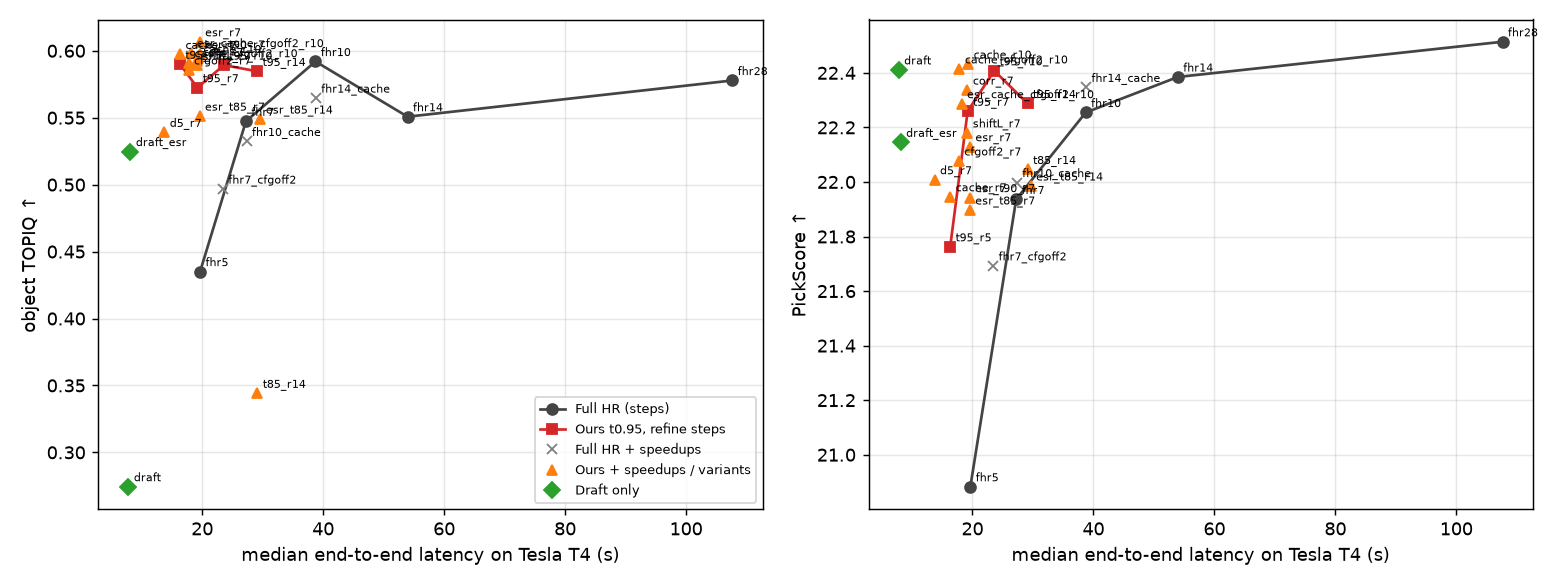
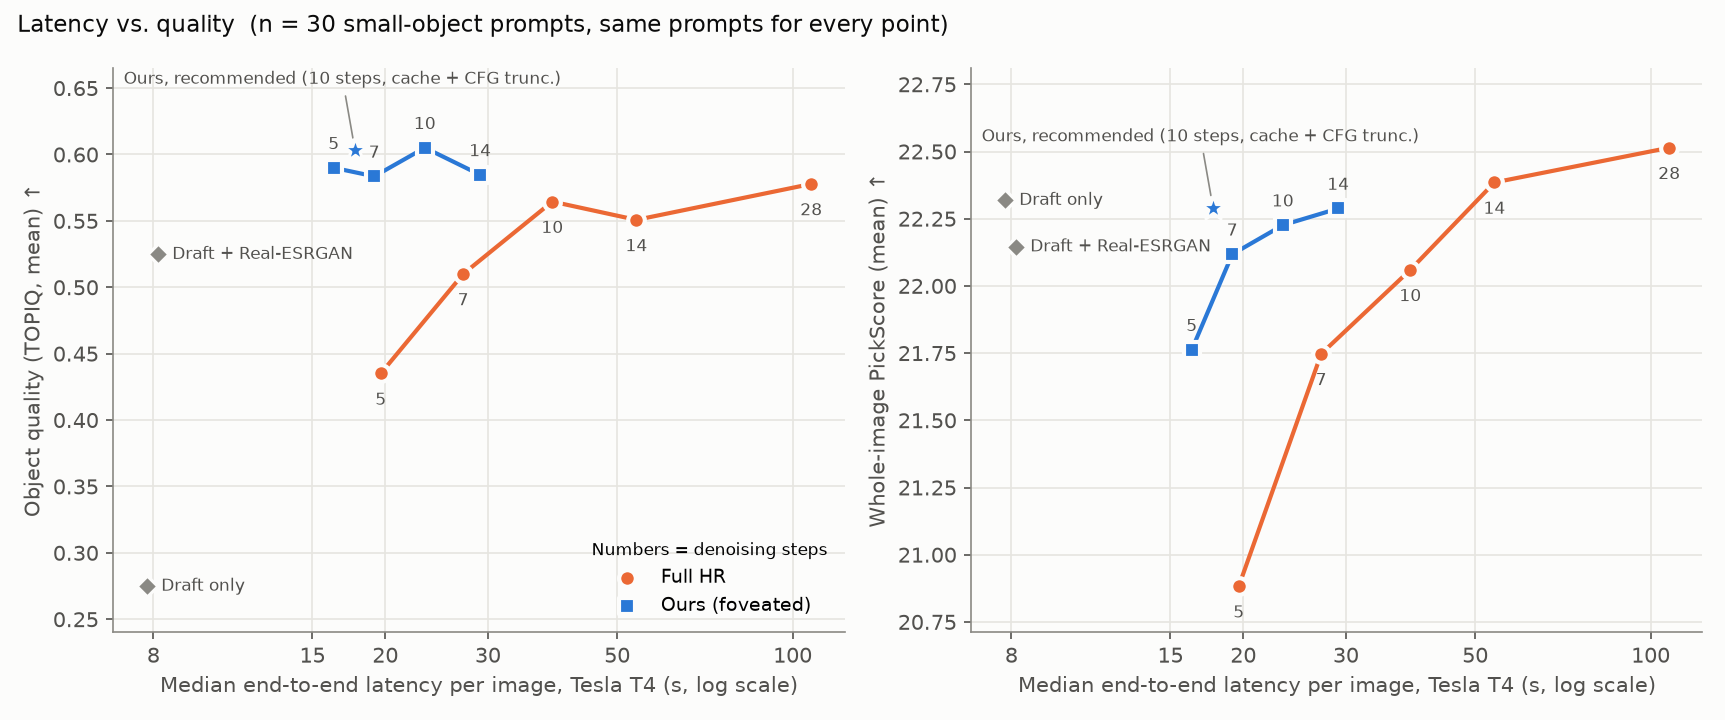
Redo ablation figures: clean latency curve, paired-effects plot, readable grid
- Latency vs. quality: only Full HR and ours step sweeps plus key points, same 30 prompts, log time axis.
- New paired-effects (forest) plot covering every ablation with 95% bootstrap CIs.
- Qualitative grid: plain-language columns, crops on the scored OWLv2 box, rule-based prompt choice, JPEG (5.4 MB -> 0.4 MB).
- summarize_ablations.py no longer overwrites the latency figure.

diff --git a/scripts/ablation_figure.py b/scripts/ablation_figure.py
@@ -1,38 +1,238 @@
-"""Qualitative grid for the ablations: for a few prompts, full images (top) and OWLv2 object crops (bottom)."""
-import json, os, sys
+"""Figures for Ablations.md / RESULTS.md (called by summarize_ablations.py, or run directly).
+
+  assets/ablation_latency_quality.png  latency vs. object quality / PickScore: Full HR step sweep vs. ours, n = 30 shared prompts
+  assets/ablation_effects.png          paired effects (Δ object TOPIQ, 95% bootstrap CI) for every ablation question
+  assets/ablation_qualitative.jpg      same prompts, same draft: full image + OWLv2 object crop (the crop TOPIQ is scored on)
+"""
+import json
+import os
+
+import matplotlib
+matplotlib.use("Agg")
+import matplotlib.pyplot as plt
+import numpy as np
 import pandas as pd
-from PIL import Image, ImageDraw
+from PIL import Image
 
-VARS = ["draft", "ours_t95_r7", "allhr_fov_t95_r7", "allhr_nofov_t95_r7", "mask_random_t95_r7", "ours_esr_t95_r7",
-        "ours_cache_t95_r10", "fhr7"]
+CSV = "results/ablations/metrics.csv"
+CSV1 = "results/ablations/metrics_seed1.csv"
+ROOT = "outputs/abl"
+
+# palette: reference categorical slots 1-2 (validated all-pairs, light + dark); neutral ink for everything else
+OURS, FHR = "#2a78d6", "#eb6834"
+INK, INK2, MUTED, GRID, SURF = "#0b0b0b", "#52514e", "#8a8984", "#e6e5e0", "#fcfcfb"
+
+plt.rcParams.update({
+    "font.family": "DejaVu Sans", "font.size": 10, "axes.edgecolor": MUTED, "axes.labelcolor": INK2,
+    "xtick.color": INK2, "ytick.color": INK2, "axes.spines.top": False, "axes.spines.right": False,
+    "axes.grid": True, "grid.color": GRID, "grid.linewidth": 0.8, "axes.axisbelow": True,
+    "figure.facecolor": SURF, "axes.facecolor": SURF, "savefig.facecolor": SURF,
+})
+rng = np.random.default_rng(0)
 
 
-def main(csv="results/ablations/metrics.csv", root="outputs/abl", out="assets/ablation_qualitative.png", n=3, tile=256):
-    df = pd.read_csv(csv)
-    vars_ = [v for v in VARS if v in set(df.variant)]
-    have = df[df.variant.isin(vars_)].groupby("id").variant.nunique()
-    ids = [i for i in have[have == len(vars_)].index][:: max(1, len(have) // n)][:n]
-    if not ids:
-        return
-    W = tile * len(vars_)
-    canvas = Image.new("RGB", (W, (2 * tile + 18) * len(ids) + 18), "white")
-    d = ImageDraw.Draw(canvas)
-    for j, v in enumerate(vars_):
-        d.text((j * tile + 4, 2), v, fill="black")
+def load():
+    df = pd.read_csv(CSV)
+    base = df.groupby("id").seed.transform("min")
+    d0 = df[df.seed == base]
+    d1 = pd.read_csv(CSV1) if os.path.exists(CSV1) else None
+    return d0, d1
+
+
+# ---------------------------------------------------------------- 1. latency vs quality
+def latency_quality(d0, out="assets/ablation_latency_quality.png"):
+    fhr = [("fhr5", 5), ("fhr7", 7), ("fhr10", 10), ("fhr14", 14), ("fhr28", 28)]
+    ours = [("ours_t95_r5", 5), ("ours_t95_r7", 7), ("ours_t95_r10", 10), ("ours_t95_r14", 14)]
+    extra = [("ours_cache_cfgoff2_t95_r10", "Ours, recommended\n(10 steps, cache + CFG trunc.)"),
+             ("draft", "Draft only"), ("draft_esr", "Draft + Real-ESRGAN")]
+    allv = [v for v, _ in fhr + ours] + [v for v, _ in extra]
+    allv = [v for v in allv if v in set(d0.variant)]
+    sets = [set(d0[d0.variant == v].id) for v in allv]
+    ids = sorted(set.intersection(*sets))
+    d = d0[d0.id.isin(ids)]
+    g = d.groupby("variant").agg(lat=("latency_s", "median"), q=("obj_topiq", "mean"), p=("pick", "mean"))
+
+    fig, axes = plt.subplots(1, 2, figsize=(11.5, 4.8))
+    for ax, col, ylab in [(axes[0], "q", "Object quality (TOPIQ, mean) ↑"), (axes[1], "p", "Whole-image PickScore (mean) ↑")]:
+        for series, color, mk, name in [(fhr, FHR, "o", "Full HR"), (ours, OURS, "s", "Ours (foveated)")]:
+            s = [(g.loc[v, "lat"], g.loc[v, col], k) for v, k in series if v in g.index]
+            x, y, k = zip(*s)
+            ax.plot(x, y, "-", color=color, lw=2, zorder=2)
+            ax.scatter(x, y, s=64, marker=mk, color=color, edgecolor=SURF, linewidth=2, zorder=3, label=name)
+            for xi, yi, ki in s:
+                ax.annotate(f"{ki}", (xi, yi), xytext=(0, -15 if color == FHR else 9), textcoords="offset points",
+                            ha="center", fontsize=8, color=INK2)
+        for v, lab in extra:
+            if v not in g.index:
+                continue
+            rec = v.startswith("ours")
+            ax.scatter(g.loc[v, "lat"], g.loc[v, col], s=150 if rec else 50, marker="*" if rec else "D",
+                       color=OURS if rec else MUTED, edgecolor=SURF, linewidth=1.5, zorder=4)
+            if rec:
+                ax.annotate(lab.replace("\n", " "), (g.loc[v, "lat"], g.loc[v, col]), xytext=(-6, 30), textcoords="offset points",
+                            fontsize=8, color=INK2, ha="center", va="bottom",
+                            arrowprops=dict(arrowstyle="-", color=MUTED, lw=0.8, shrinkB=6))
+            else:
+                ax.annotate(lab, (g.loc[v, "lat"], g.loc[v, col]), xytext=(7, 0), textcoords="offset points",
+                            fontsize=8, color=INK2, va="center")
+        ax.set_xscale("log")
+        ax.set_xticks([8, 15, 20, 30, 50, 100])
+        ax.get_xaxis().set_major_formatter(matplotlib.ticker.ScalarFormatter())
+        ax.minorticks_off()
+        ax.set_xlabel("Median end-to-end latency per image, Tesla T4 (s, log scale)")
+        ax.set_ylabel(ylab)
+        lo, hi = ax.get_ylim()
+        ax.set_ylim(lo - (hi - lo) * 0.05, hi + (hi - lo) * 0.12)  # room for step labels + recommended-config label
+    axes[0].legend(loc="lower right", frameon=False, fontsize=9, title="Numbers = denoising steps", title_fontsize=8)
+    fig.suptitle(f"Latency vs. quality  (n = {len(ids)} small-object prompts, same prompts for every point)",
+                 x=0.01, ha="left", fontsize=11, color=INK)
+    fig.tight_layout()
+    fig.savefig(out, dpi=150)
+    plt.close(fig)
+
+
+# ---------------------------------------------------------------- 2. paired effects (forest plot)
+EFFECTS = [
+    ("Mask source (equal token budget)", [
+        ("ours_t95_r7", "mask_random_t95_r7", "CLIPSeg mask vs. same-size box, wrong place", 0),
+        ("ours_t95_r7", "mask_center_t95_r7", "CLIPSeg mask vs. same-size box, centered", 0),
+        ("ours_t95_r7", "mask_none_t95_r7", "CLIPSeg mask vs. no full-res tokens", 0),
+        ("ours_t95_r7", "mask_random_t95_r7", "CLIPSeg vs. wrong-place box (seed 2)", 1)]),
+    ("Every token full-res (same draft)", [
+        ("allhr_fov_t95_r7", "ours_t95_r7", "All full-res, foveated LoRA vs. ours", 0),
+        ("allhr_nofov_t95_r7", "ours_t95_r7", "All full-res, no-foveation LoRA vs. ours", 0),
+        ("allhr_base_t95_r7", "ours_t95_r7", "All full-res, no LoRA vs. ours", 0),
+        ("allhr_fov_esr_t95_r7", "allhr_fov_t95_r7", "All full-res: Real-ESRGAN vs. bicubic init", 0),
+        ("naive_t95_r7", "ours_t95_r7", "No foveated attention vs. ours", 0),
+        ("ours_shiftL_t95_r7", "ours_t95_r7", "True-length schedule shift vs. ours", 0)]),
+    ("Init and noise", [
+        ("ours_corr_t95_r7", "ours_t95_r7", "Correlated low/high-res noise", 0),
+        ("ours_esr_t95_r7", "ours_t95_r7", "Real-ESRGAN init, t=0.95", 0),
+        ("ours_esr_t95_r7", "ours_t95_r7", "Real-ESRGAN init, t=0.95 (seed 2)", 1),
+        ("ours_esr_t85_r14", "ours_t85_r14", "Real-ESRGAN init, t=0.85, 14 steps", 0)]),
+    ("Speedups (vs. ours, 7 steps)", [
+        ("ours_cfgoff2_t95_r7", "ours_t95_r7", "No CFG on last 2 steps  (−1.4 s)", 0),
+        ("ours_cache_t95_r7", "ours_t95_r7", "Cache 2 of 7 steps  (−2.8 s)", 0),
+        ("ours_cache_t95_r10", "ours_t95_r7", "10 steps, 3 cached  (±0 s)", 0),
+        ("ours_cache_cfgoff2_t95_r10", "ours_t95_r7", "Recommended: 10 steps, cache + CFG trunc.  (−1.4 s)", 0)]),
+    ("Ours vs. Full HR", [
+        ("ours_t95_r5", "fhr5", "Ours vs. Full HR, 5 steps each  (3.3 s faster)", 0),
+        ("ours_t95_r7", "fhr7", "Ours vs. Full HR, 7 steps each  (1.4× faster)", 0),
+        ("ours_cache_cfgoff2_t95_r10", "fhr7", "Recommended vs. Full HR 7 steps  (1.5× faster)", 0),
+        ("ours_cache_cfgoff2_t95_r10", "fhr10", "Recommended vs. Full HR 10 steps  (2.2× faster)", 0),
+        ("ours_cache_cfgoff2_t95_r10", "fhr10", "Recommended vs. Full HR 10 steps (seed 2)", 1),
+        ("ours_t95_r5", "fhr28", "Ours 5 steps vs. Full HR 28 steps  (6.6× faster)", 0)]),
+]
+
+
+def paired(df, a, b, m="obj_topiq"):
+    if df is None:
+        return None
+    x = df[df.variant == a].set_index("id")[m]
+    y = df[df.variant == b].set_index("id")[m]
+    ids = x.index.intersection(y.index)
+    dd = (x[ids] - y[ids]).dropna().values
+    if len(dd) < 3:
+        return None
+    boots = rng.choice(dd, (4000, len(dd))).mean(1)
+    lo, hi = np.percentile(boots, [2.5, 97.5])
+    return dd.mean(), lo, hi, len(dd)
+
+
+def effects(d0, d1, out="assets/ablation_effects.png"):
+    rows = []  # (label, mean, lo, hi, n) or (group header,)
+    for grp, items in EFFECTS:
+        rr = []
+        for a, b, lab, s in items:
+            r = paired(d0 if s == 0 else d1, a, b)
+            if r:
+                rr.append((lab, *r))
+        if rr:
+            rows.append((grp,))
+            rows += rr
+    H = 0.32 * len(rows) + 1.0
+    fig, ax = plt.subplots(figsize=(10, H))
+    y = 0
+    yt, yl = [], []
+    for r in rows:
+        y -= 1
+        if len(r) == 1:
+            ax.text(-0.015, y, r[0], transform=ax.get_yaxis_transform(), ha="right", va="center",
+                    fontsize=9.5, fontweight="bold", color=INK)
+            continue
+        lab, m, lo, hi, n = r
+        sig = lo > 0 or hi < 0
+        ax.plot([lo, hi], [y, y], color=OURS if sig else MUTED, lw=2, solid_capstyle="round", zorder=2)
+        ax.scatter([m], [y], s=46, color=OURS if sig else SURF, edgecolor=OURS if sig else MUTED, linewidth=1.8, zorder=3)
+        ax.text(1.01, y, f"{m:+.3f}  [{lo:+.3f}, {hi:+.3f}]  n={n}", transform=ax.get_yaxis_transform(),
+                va="center", fontsize=8, color=INK2, family="DejaVu Sans Mono")
+        yt.append(y)
+        yl.append(lab)
+    ax.axvline(0, color=INK2, lw=1, zorder=1)
+    ax.set_yticks(yt, yl, fontsize=8.5)
+    ax.tick_params(axis="y", length=0)
+    ax.set_ylim(y - 0.7, 0.3)
+    ax.grid(axis="y", visible=False)
+    ax.set_xlabel("Δ object quality (TOPIQ), paired per prompt: first − second.  Filled = 95% CI excludes 0")
+    ax.set_title("Every ablation in one view: paired differences with 95% bootstrap CIs", loc="left", fontsize=11, color=INK)
+    fig.tight_layout()
+    fig.subplots_adjust(right=0.74)
+    fig.savefig(out, dpi=150)
+    plt.close(fig)
+
+
+# ---------------------------------------------------------------- 3. qualitative grid
+COLS = [("draft", "Draft (256², bicubic ×4)"), ("fhr7", "Full HR, 7 steps"), ("allhr_fov_t95_r7", "All tokens full-res"),
+        ("mask_random_t95_r7", "Mask in wrong place"), ("ours_t95_r7", "Ours, 7 steps"),
+        ("ours_cache_cfgoff2_t95_r10", "Ours, recommended")]
+
+
+def qualitative(d0, out="assets/ablation_qualitative.jpg", n=3, tile=300):
+    from src.semantic_foveation.benchmark import PROMPT_SETS
+    prompts = {p["id"]: p for s in PROMPT_SETS.values() for p in s}
+    cols = [(v, t) for v, t in COLS if v in set(d0.variant)]
+    ref = "allhr_nofov_t95_r7"
+    have = d0[d0.variant.isin([v for v, _ in cols] + [ref])].groupby("id").variant.nunique()
+    cand = have[have == len(cols) + 1].index
+    # prompts chosen without looking at images: 25th/50th/75th percentile of the ours − all-full-res TOPIQ gap
+    diff = (d0[d0.variant == "ours_t95_r7"].set_index("id").obj_topiq - d0[d0.variant == "allhr_fov_t95_r7"].set_index("id").obj_topiq)
+    diff = diff[diff.index.isin(cand)].sort_values()
+    ids = [diff.index[int(q * (len(diff) - 1))] for q in (0.25, 0.5, 0.75)][:n]
+
+    fig, axes = plt.subplots(2 * len(ids), len(cols), figsize=(2.2 * len(cols), 2.2 * 2 * len(ids) + 0.6),
+                             gridspec_kw=dict(wspace=0.03, hspace=0.06))
     for r, pid in enumerate(ids):
-        y = 18 + r * (2 * tile + 18)
-        for j, v in enumerate(vars_):
-            row = df[(df.variant == v) & (df.id == pid)].iloc[0]
-            img = Image.open(os.path.join(root, v, f"{pid:03d}.png")).convert("RGB")
-            box = json.loads(row["box"])
-            full = img.resize((tile, tile))
-            dd = ImageDraw.Draw(full)
+        for j, (v, title) in enumerate(cols):
+            img = Image.open(os.path.join(ROOT, v, f"{pid:03d}.png")).convert("RGB")
+            row = d0[(d0.variant == v) & (d0.id == pid)].iloc[0]
+            box = json.loads(row["box"])  # this image's own OWLv2 box = the crop its TOPIQ is computed on
+            a_full, a_crop = axes[2 * r, j], axes[2 * r + 1, j]
+            a_full.imshow(img.resize((tile, tile), Image.Resampling.LANCZOS))
             s = tile / img.width
-            dd.rectangle([box[0] * s, box[1] * s, box[2] * s, box[3] * s], outline="yellow", width=2)
-            canvas.paste(full, (j * tile, y))
-            canvas.paste(img.crop(box).resize((tile, tile), Image.Resampling.LANCZOS), (j * tile, y + tile))
-            d.text((j * tile + 4, y + 2 * tile + 2), f"id {pid} topiq {row['obj_topiq']:.2f}", fill="black")
-    canvas.save(out)
+            a_full.add_patch(plt.Rectangle((box[0] * s, box[1] * s), (box[2] - box[0]) * s, (box[3] - box[1]) * s,
+                                           fill=False, ec="#ffd400", lw=1.5))
+            a_crop.imshow(img.crop(box).resize((tile, tile), Image.Resampling.LANCZOS))
+            a_crop.text(0.03, 0.03, f"TOPIQ {row['obj_topiq']:.2f}", transform=a_crop.transAxes, fontsize=7.5,
+                        color="white", bbox=dict(fc="black", alpha=0.55, lw=0, pad=1.5))
+            for a in (a_full, a_crop):
+                a.set_xticks([]); a.set_yticks([]); a.grid(False)
+                for sp in a.spines.values():
+                    sp.set_visible(v.startswith("ours")); sp.set_color(OURS); sp.set_linewidth(2)
+            if r == 0:
+                a_full.set_title(title, fontsize=9, color=INK)
+        axes[2 * r, 0].set_ylabel(f"“{prompts[pid]['focus_prompt']}”", fontsize=8.5, color=INK2)
+        axes[2 * r + 1, 0].set_ylabel("object crop", fontsize=8, color=MUTED)
+    fig.savefig(out, dpi=110, bbox_inches="tight", pil_kwargs={"quality": 88})
+    plt.close(fig)
+
+
+def main():
+    import sys
+    sys.path.insert(0, os.path.dirname(os.path.dirname(os.path.abspath(__file__))))
+    d0, d1 = load()
+    latency_quality(d0)
+    effects(d0, d1)
+    qualitative(d0)
 
 
 if __name__ == "__main__":

diff --git a/scripts/summarize_ablations.py b/scripts/summarize_ablations.py
@@ -1,7 +1,7 @@
 """Summarize results/ablations/metrics.csv into markdown tables (+ latency/quality plot).
 
 Every comparison is paired over the prompts both variants share, with 95% bootstrap CIs (2000 resamples).
-Writes results/ablations/SUMMARY.md and assets/ablation_latency_quality.png, and splices SUMMARY.md into
+Writes results/ablations/SUMMARY.md, the figures (scripts/ablation_figure.py), and splices SUMMARY.md into
 RESULTS.md between the ABLATIONS markers.
 """
 
@@ -18,7 +18,6 @@ import pandas as pd
 
 CSV = "results/ablations/metrics.csv"
 OUT = "results/ablations/SUMMARY.md"
-PLOT = "assets/ablation_latency_quality.png"
 METRICS = ["latency_s", "tokens", "obj_topiq", "obj_musiq", "obj_clipiqa", "obj_hf", "obj_clip", "owl_score", "pick",
            "drift_lpips", "ref_lpips_obj", "seam"]
 rng = np.random.default_rng(0)
@@ -91,29 +90,6 @@ def paired_table(df, pairs, metrics, title, note=""):
     return ("\n".join(lines) + "\n") if any_row else ""
 
 
-def plot(df):
-    g = df.groupby("variant").agg(lat=("latency_s", "median"), q=("obj_topiq", "mean"), p=("pick", "mean"))
-    fig, axes = plt.subplots(1, 2, figsize=(12, 4.5))
-    fams = [("Full HR (steps)", lambda v: v.startswith("fhr") and "_" not in v, "#444444", "o-"),
-            ("Ours t0.95, refine steps", lambda v: v in ("ours_t95_r5", "ours_t95_r7", "ours_t95_r10", "ours_t95_r14"), "#d62728", "s-"),
-            ("Full HR + speedups", lambda v: v.startswith("fhr") and "_" in v, "#7f7f7f", "x"),
-            ("Ours + speedups / variants", lambda v: v.startswith("ours") and v not in ("ours_t95_r5", "ours_t95_r7", "ours_t95_r10", "ours_t95_r14"), "#ff7f0e", "^"),
-            ("Draft only", lambda v: v.startswith("draft"), "#2ca02c", "D")]
-    for ax, col, lab in [(axes[0], "q", "object TOPIQ ↑"), (axes[1], "p", "PickScore ↑")]:
-        for name, f, c, mk in fams:
-            s = g[[f(v) for v in g.index]].sort_values("lat")
-            if len(s):
-                ax.plot(s.lat, s[col], mk, color=c, label=name, ms=6)
-                for v, r in s.iterrows():
-                    ax.annotate(v.replace("ours_", "").replace("_t95", ""), (r.lat, r[col]), fontsize=6, xytext=(3, 3), textcoords="offset points")
-        ax.set_xlabel("median end-to-end latency on Tesla T4 (s)")
-        ax.set_ylabel(lab)
-        ax.grid(alpha=0.3)
-    axes[0].legend(fontsize=7)
-    fig.tight_layout()
-    fig.savefig(PLOT, dpi=130)
-
-
 def main():
     if not os.path.exists(CSV):
         print("no metrics yet")
@@ -179,7 +155,6 @@ def main():
     md = "\n".join(p for p in parts if p)
     os.makedirs(os.path.dirname(OUT), exist_ok=True)
     open(OUT, "w").write(md)
-    plot(df)
     try:
         import ablation_figure
         ablation_figure.main()

diff --git a/Ablations.md b/Ablations.md
@@ -2,7 +2,9 @@
 
 This document lists every ablation run in the Session 2 study and what each one showed. The full tables, with every paired confidence interval, are in [RESULTS.md](RESULTS.md) (section "Session 2") and [results/ablations/SUMMARY.md](results/ablations/SUMMARY.md). The raw per-image metrics are in `results/ablations/metrics*.csv`.
 
-![latency vs quality](assets/ablation_latency_quality.png)
+![Latency vs. quality: Full HR step sweep vs. ours](assets/ablation_latency_quality.png)
+
+*Each point is one configuration, averaged over the same 30 prompts; numbers next to points are denoising steps. Ours (blue) reaches the object quality of Full HR at 10–28 steps (orange) in 16–29 s. On whole-image PickScore, Full HR catches up only at 14+ steps, because ours keeps the background at low resolution.*
 
 ## Setup
 
@@ -31,6 +33,10 @@ This document lists every ablation run in the Session 2 study and what each one 
 - **The gain comes from the mask's placement.** A CLIPSeg mask beats a same-size mask in the wrong place by +0.15 object TOPIQ. A wrong-place mask is no better than no full-res tokens at all.
 - **The all-full-res gap is explained.** Making every token full-res gives a worse object because it keeps the blur of the bicubic-upsampled draft. The LoRA and the schedule shift are ruled out as causes.
 - **Caveat:** no-reference IQA rewards sharpening. The draft plus Real-ESRGAN, with no diffusion at all, already scores TOPIQ 0.525. A blind human A/B test is still needed before claiming a perceptual win.
+
+![Paired effect of every ablation on object quality](assets/ablation_effects.png)
+
+*Each row is a paired comparison over the same prompts and draft (first − second), with a 95% bootstrap CI. Filled points have CIs that exclude 0; hollow points are not significant. "Seed 2" rows rerun the comparison with a different noise seed.*
 
 ## All ablations
 
@@ -161,7 +167,11 @@ $PY scripts/summarize_ablations.py            # tables -> results/ablations/SUMM
 | [scripts/run_ablations.py](scripts/run_ablations.py) | Variant registry and generation |
 | [scripts/eval_ablations.py](scripts/eval_ablations.py) | Metrics |
 | [scripts/summarize_ablations.py](scripts/summarize_ablations.py) | Paired-bootstrap tables and plot |
-| [scripts/ablation_figure.py](scripts/ablation_figure.py) | Qualitative grid (`assets/ablation_qualitative.png`) |
+| [scripts/ablation_figure.py](scripts/ablation_figure.py) | Figures: latency vs. quality, paired-effects plot, qualitative grid |
 | [scripts/run_all.sh](scripts/run_all.sh), [scripts/extra_phases.sh](scripts/extra_phases.sh) | Phase driver |
 
-![qualitative](assets/ablation_qualitative.png)
+## Qualitative examples
+
+![Qualitative comparison](assets/ablation_qualitative.jpg)
+
+*Three prompts at the 25th, 50th and 75th percentile of the ours-vs-all-full-res TOPIQ gap, chosen by that rule rather than by eye. Top of each pair: the full image with the OWLv2 object box. Bottom: the crop that box defines, which is what TOPIQ scores. All columns except Full HR share the same draft. Note that TOPIQ can differ a lot between near-identical crops (gift box: 0.71 vs. 0.41), which is why the claims rest on paired averages over many prompts rather than on single images.*

diff --git a/RESULTS.md b/RESULTS.md
@@ -158,7 +158,9 @@ These experiments follow up on session 1 (t_switch 0.95 and 7 refinement steps a
 
 ![Latency vs quality](assets/ablation_latency_quality.png)
 
-![Qualitative ablation grid: full images with the OWLv2 object box, and object crops](assets/ablation_qualitative.png)
+![Paired effect of every ablation on object quality](assets/ablation_effects.png)
+
+![Qualitative ablation grid: full images with the OWLv2 object box, and object crops](assets/ablation_qualitative.jpg)
 
 <!-- ABLATIONS:BEGIN -->
 <!-- generated by scripts/summarize_ablations.py; do not edit by hand -->
